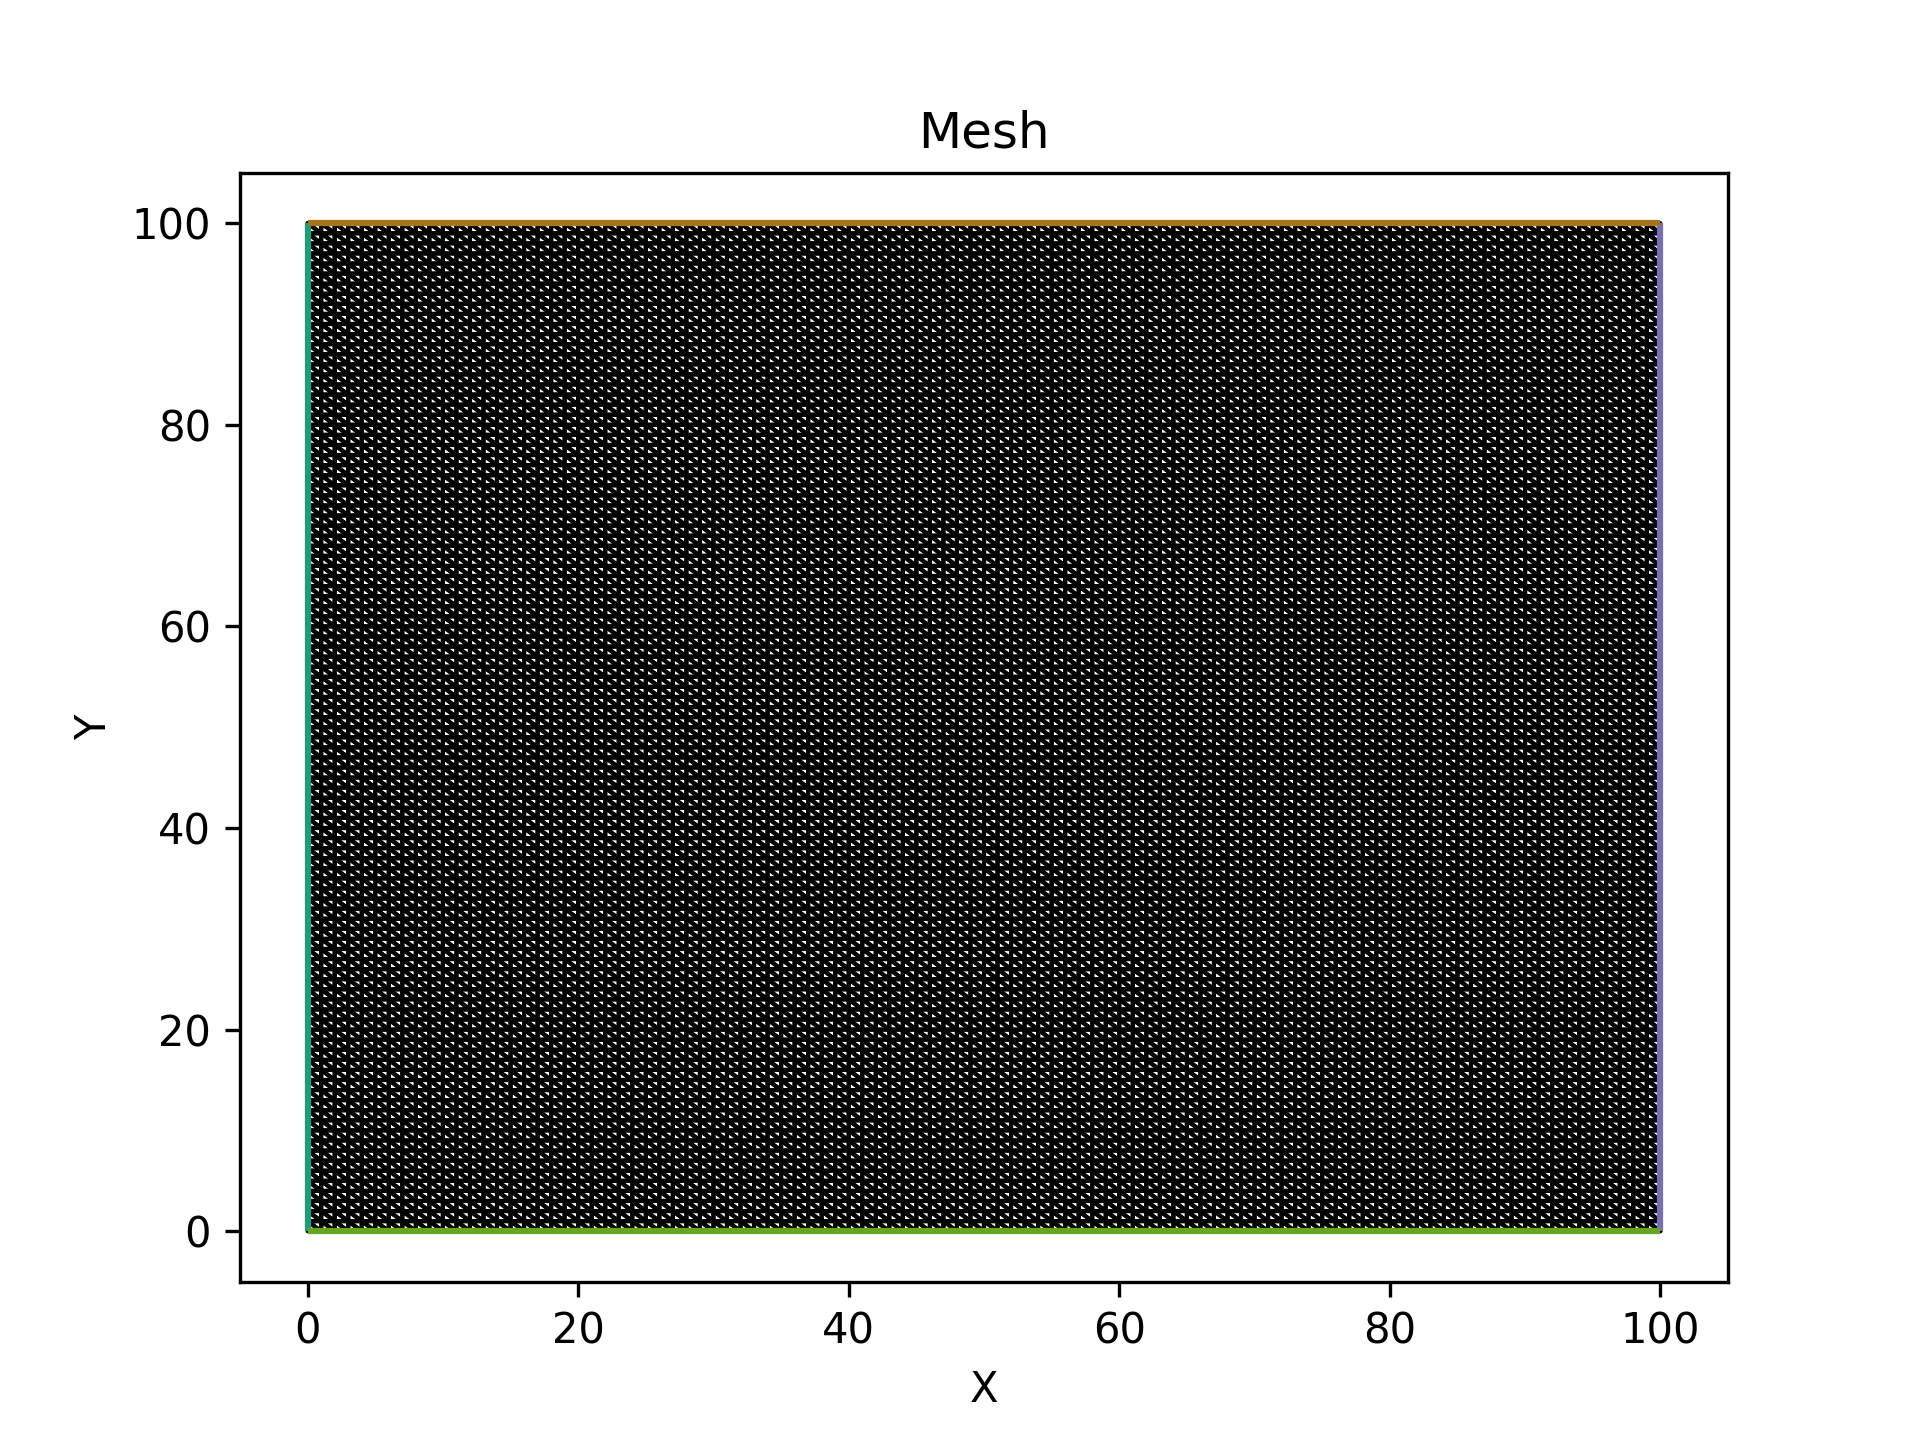
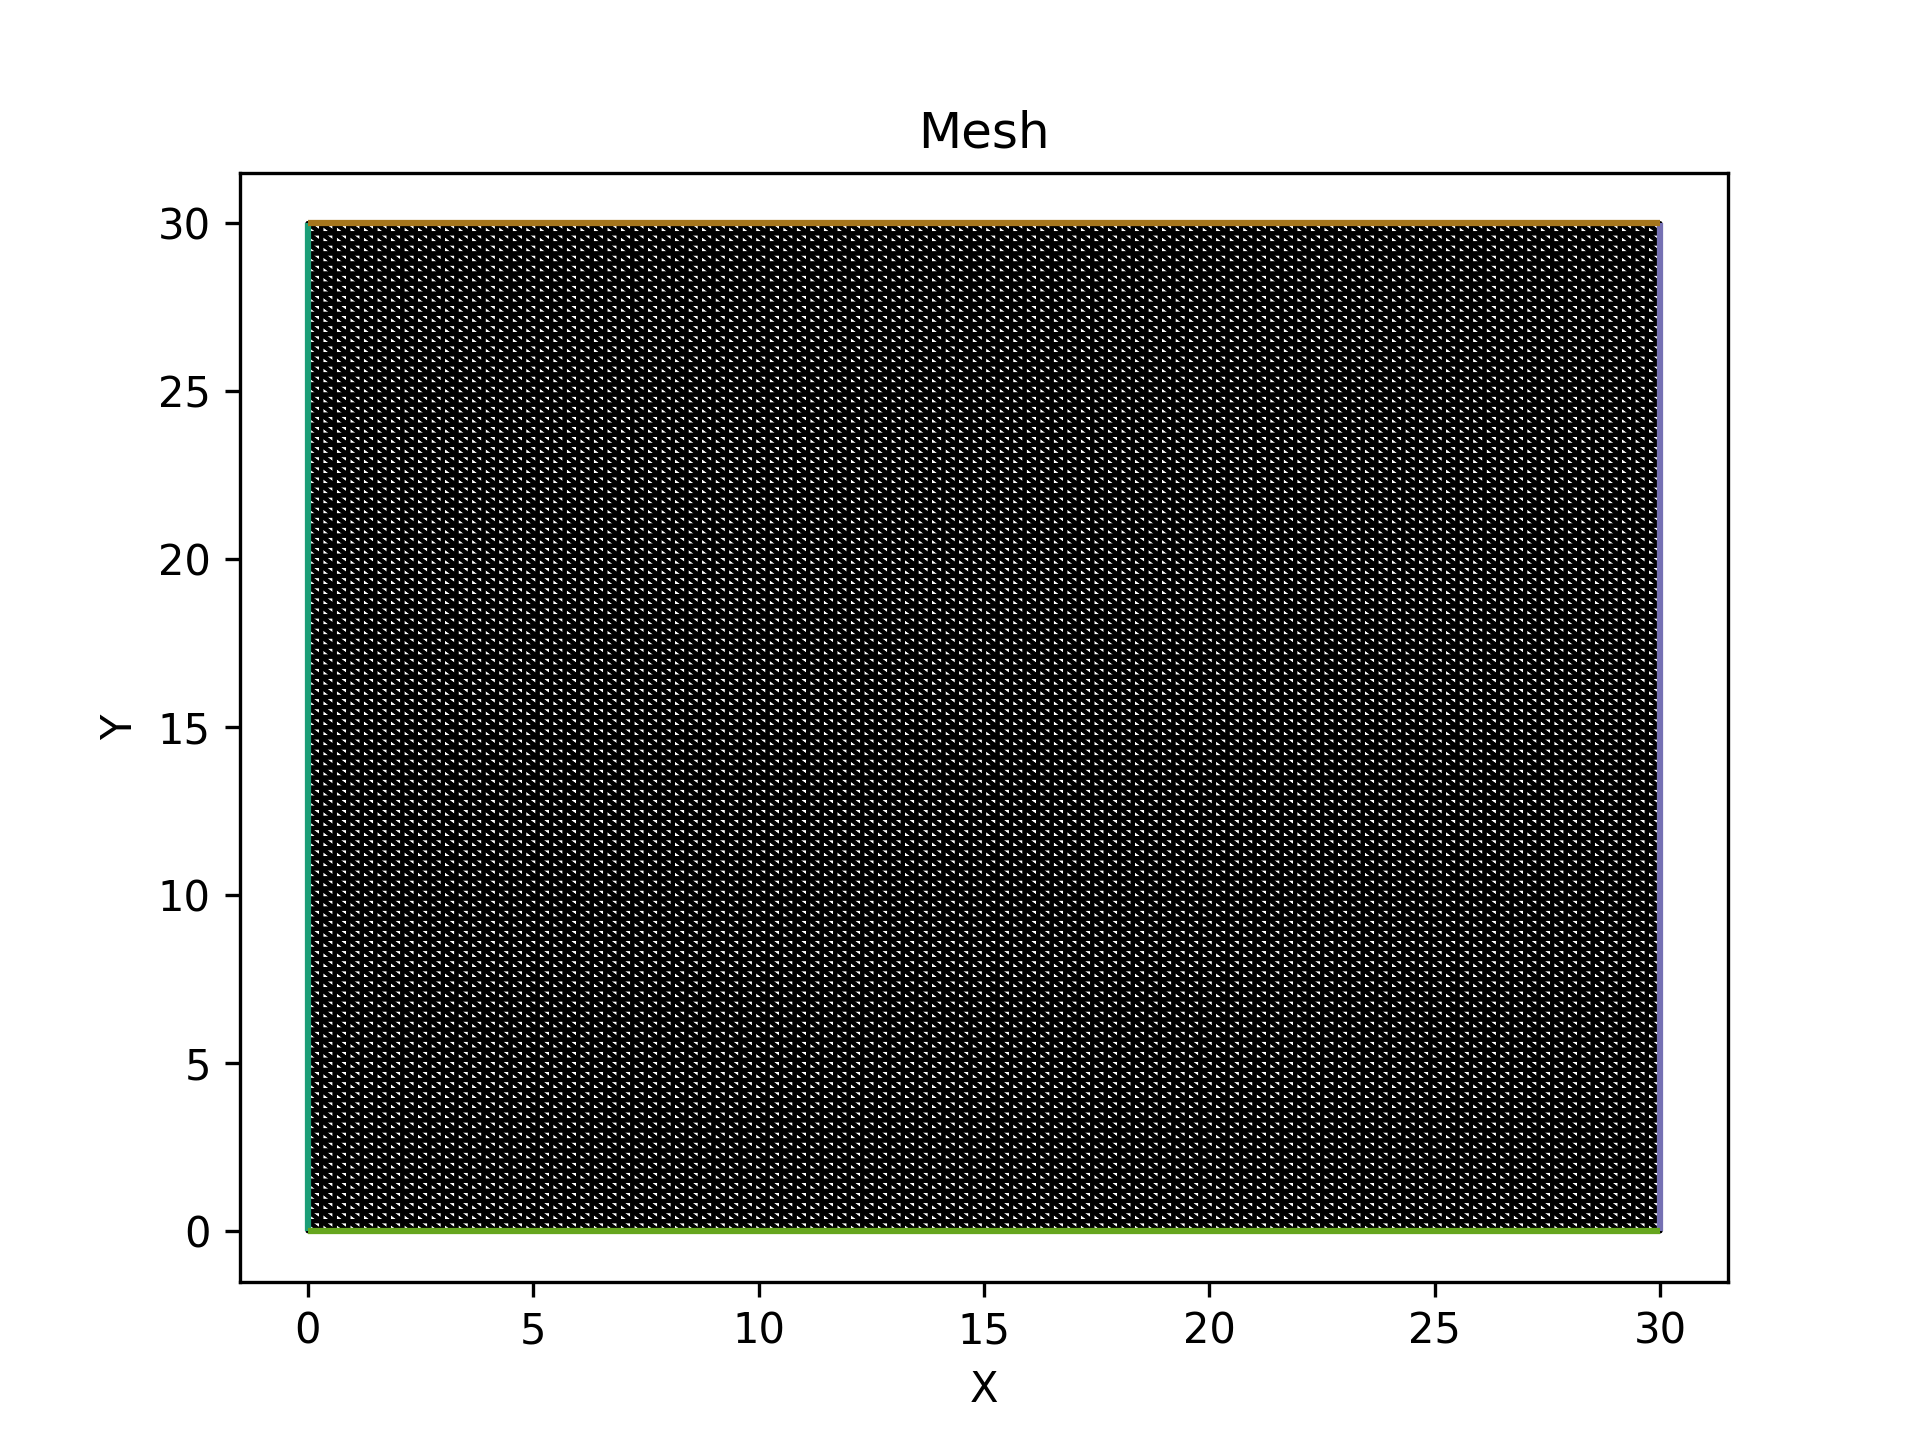
update

diff --git a/2d/main.py b/2d/main.py
@@ -16,7 +16,7 @@ from slepc4py import SLEPc
 import numpy as np
 from solver import *
 deg = 5
-L=100 # length of square
+L=30 # length of square
 nx=100
 ny=100
 nreq=301
@@ -116,7 +116,7 @@ else:
    elif coeftype == 'fixed displacement':
       dn1=np.zeros(nn**2)
       dn2=np.zeros(nn**2)
-   f_sum=0.0
+   f_sum=Constant(0.0)
    for i in range(0,nn):
       for j in range(0,nn):
       	x_center=[i+1+dn1[i*nn+j],j+1+dn2[i*nn+j]]

diff --git a/2d/test.py b/2d/test.py
@@ -7,7 +7,7 @@ from slepc4py import SLEPc
 import numpy as np
 from solver import *
 deg = 5
-L=100 # length of square
+L=10 # length of square
 nx=100
 ny=100
 mesh = SquareMesh(nx,ny,L)
